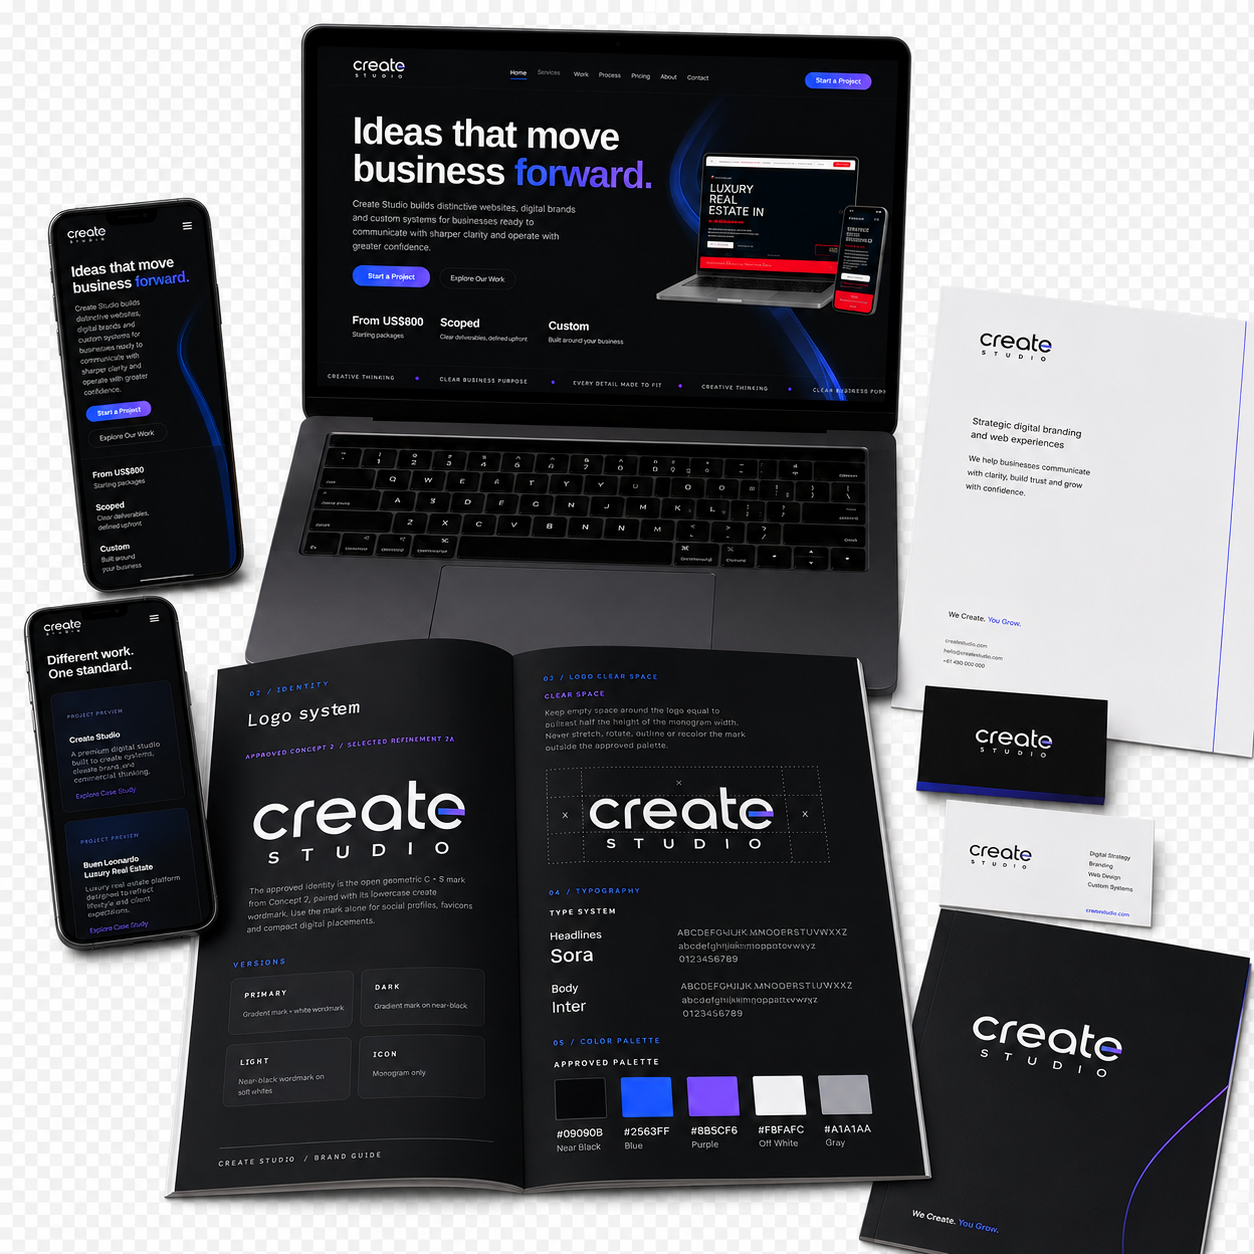
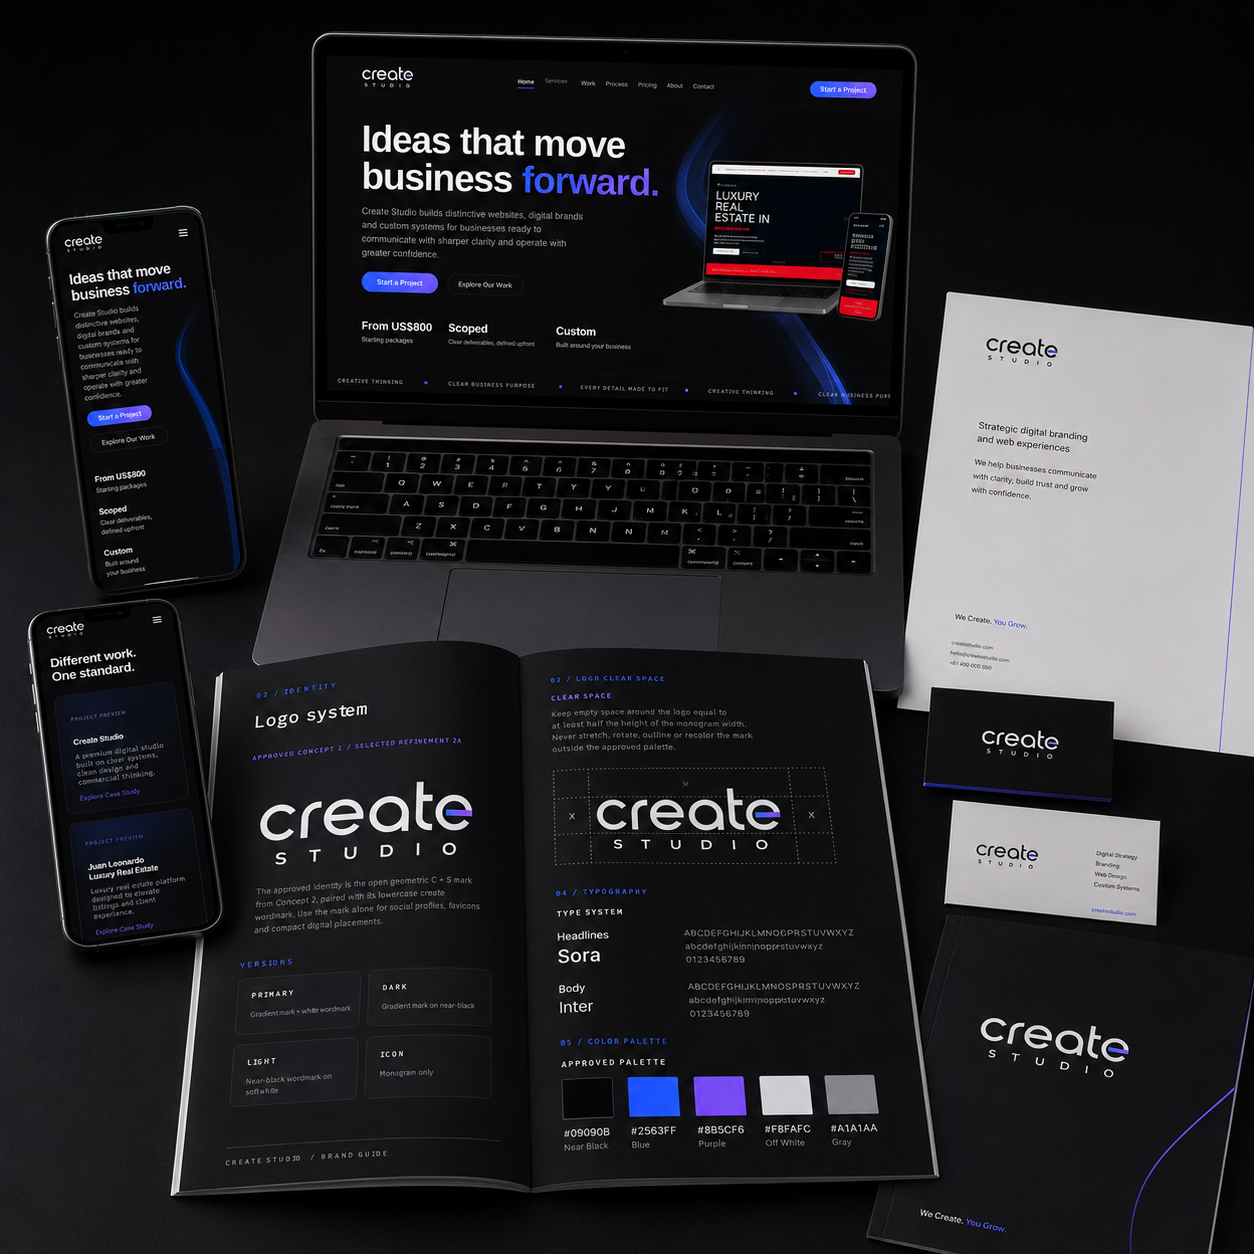
Complete the Digital Branding service card
Replaces the checkerboard export with the corrected master, which carries an
intentional near-black background matching the card's own #0B0B0E rather than
an alpha channel, and connects it to the prepared registry entry.

Verified on the supplied file before placing: corners read rgb(2,2,3) to
rgb(30,29,32) with no alternating light tones, so no pale checkerboard and no
light-coloured box reaches the card.

Treatment matches the other five exactly — same `fit: 'contain'`, same
`routes: ['/services']` scoping. All six cards now carry artwork; the
individual service pages remain untouched with zero images rendered, and the
/services hero band stays unfilled.

/services still measures 5571px desktop and 9891px mobile, unchanged.

Claude-Session: https://claude.ai/code/session_01967aAepk9B3EowKDce9FAp

diff --git a/src/data/artwork.ts b/src/data/artwork.ts
@@ -24,6 +24,7 @@ import serviceWebsiteRedesign from '../assets/services/service-website-redesign.
 import serviceCrmCustomSystems from '../assets/services/service-crm-custom-systems.png';
 import serviceSeoPerformance from '../assets/services/service-seo-performance.png';
 import serviceHostingMaintenance from '../assets/services/service-hosting-maintenance.png';
+import serviceDigitalBranding from '../assets/services/service-digital-branding.png';
 
 export interface ArtworkEntry {
   /**
@@ -158,19 +159,16 @@ export const ARTWORK: Record<string, ArtworkEntry> = {
     filename: 'service-hosting-maintenance.png',
     note: 'Hosting & Maintenance card on /services. Square master, 1254x1254.',
   },
-  // HELD BACK — not rendered. The supplied master
-  // (src/assets/services/service-digital-branding.png) has no alpha channel:
-  // its transparency was flattened onto a light checkerboard that is baked
-  // into the pixels. Rendering it would put a pale checkered panel inside the
-  // dark card. Removing that background would mean editing the artwork, which
-  // is out of scope. Register `image` here once a re-export with real
-  // transparency (or a near-black background, matching the other five) arrives.
+  // The master carries an intentional near-black background rather than an
+  // alpha channel, matching the card's own #0B0B0E so the artwork reads as
+  // part of the card. No transparency is required or expected here.
   'create-service-branding': {
+    image: serviceDigitalBranding,
     decorative: true,
     routes: ['/services'],
     fit: 'contain',
     filename: 'service-digital-branding.png',
-    note: 'Digital Branding card on /services. Awaiting a master with a real alpha channel.',
+    note: 'Digital Branding card on /services. Square master, 1254x1254, near-black background by design.',
   },
 
   /* --- case-study imagery ------------------------------------------------ */
